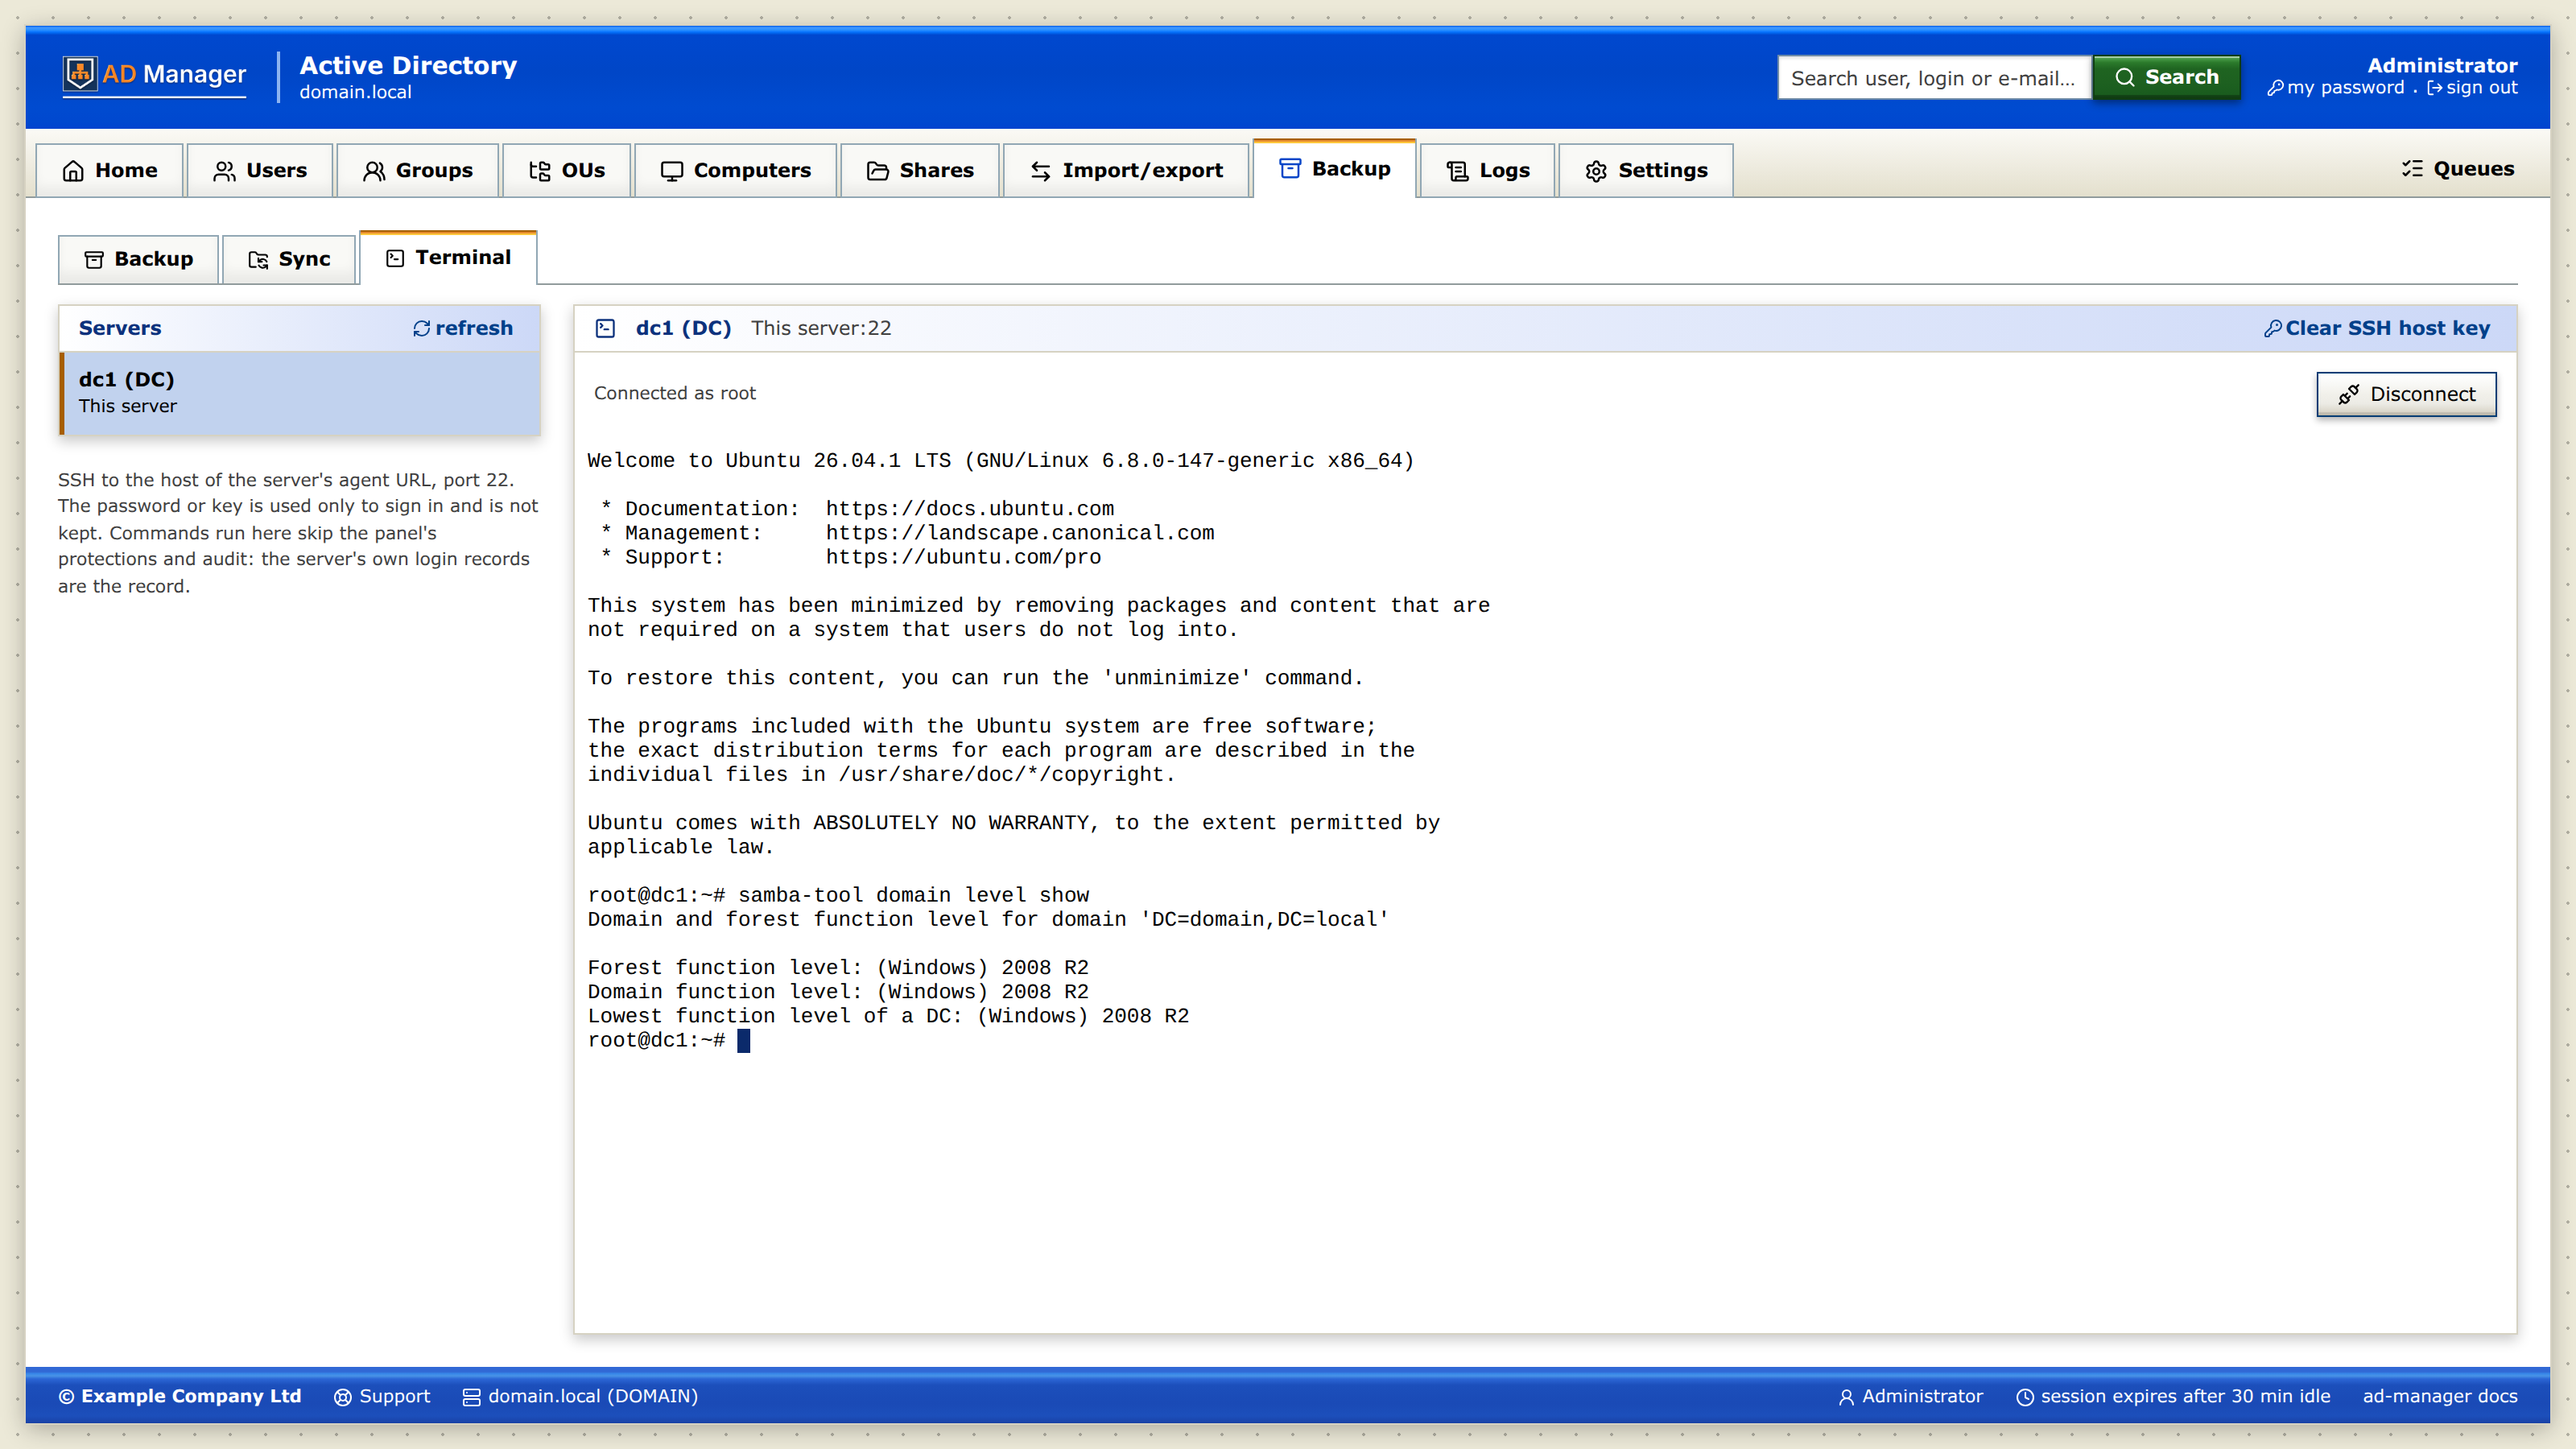
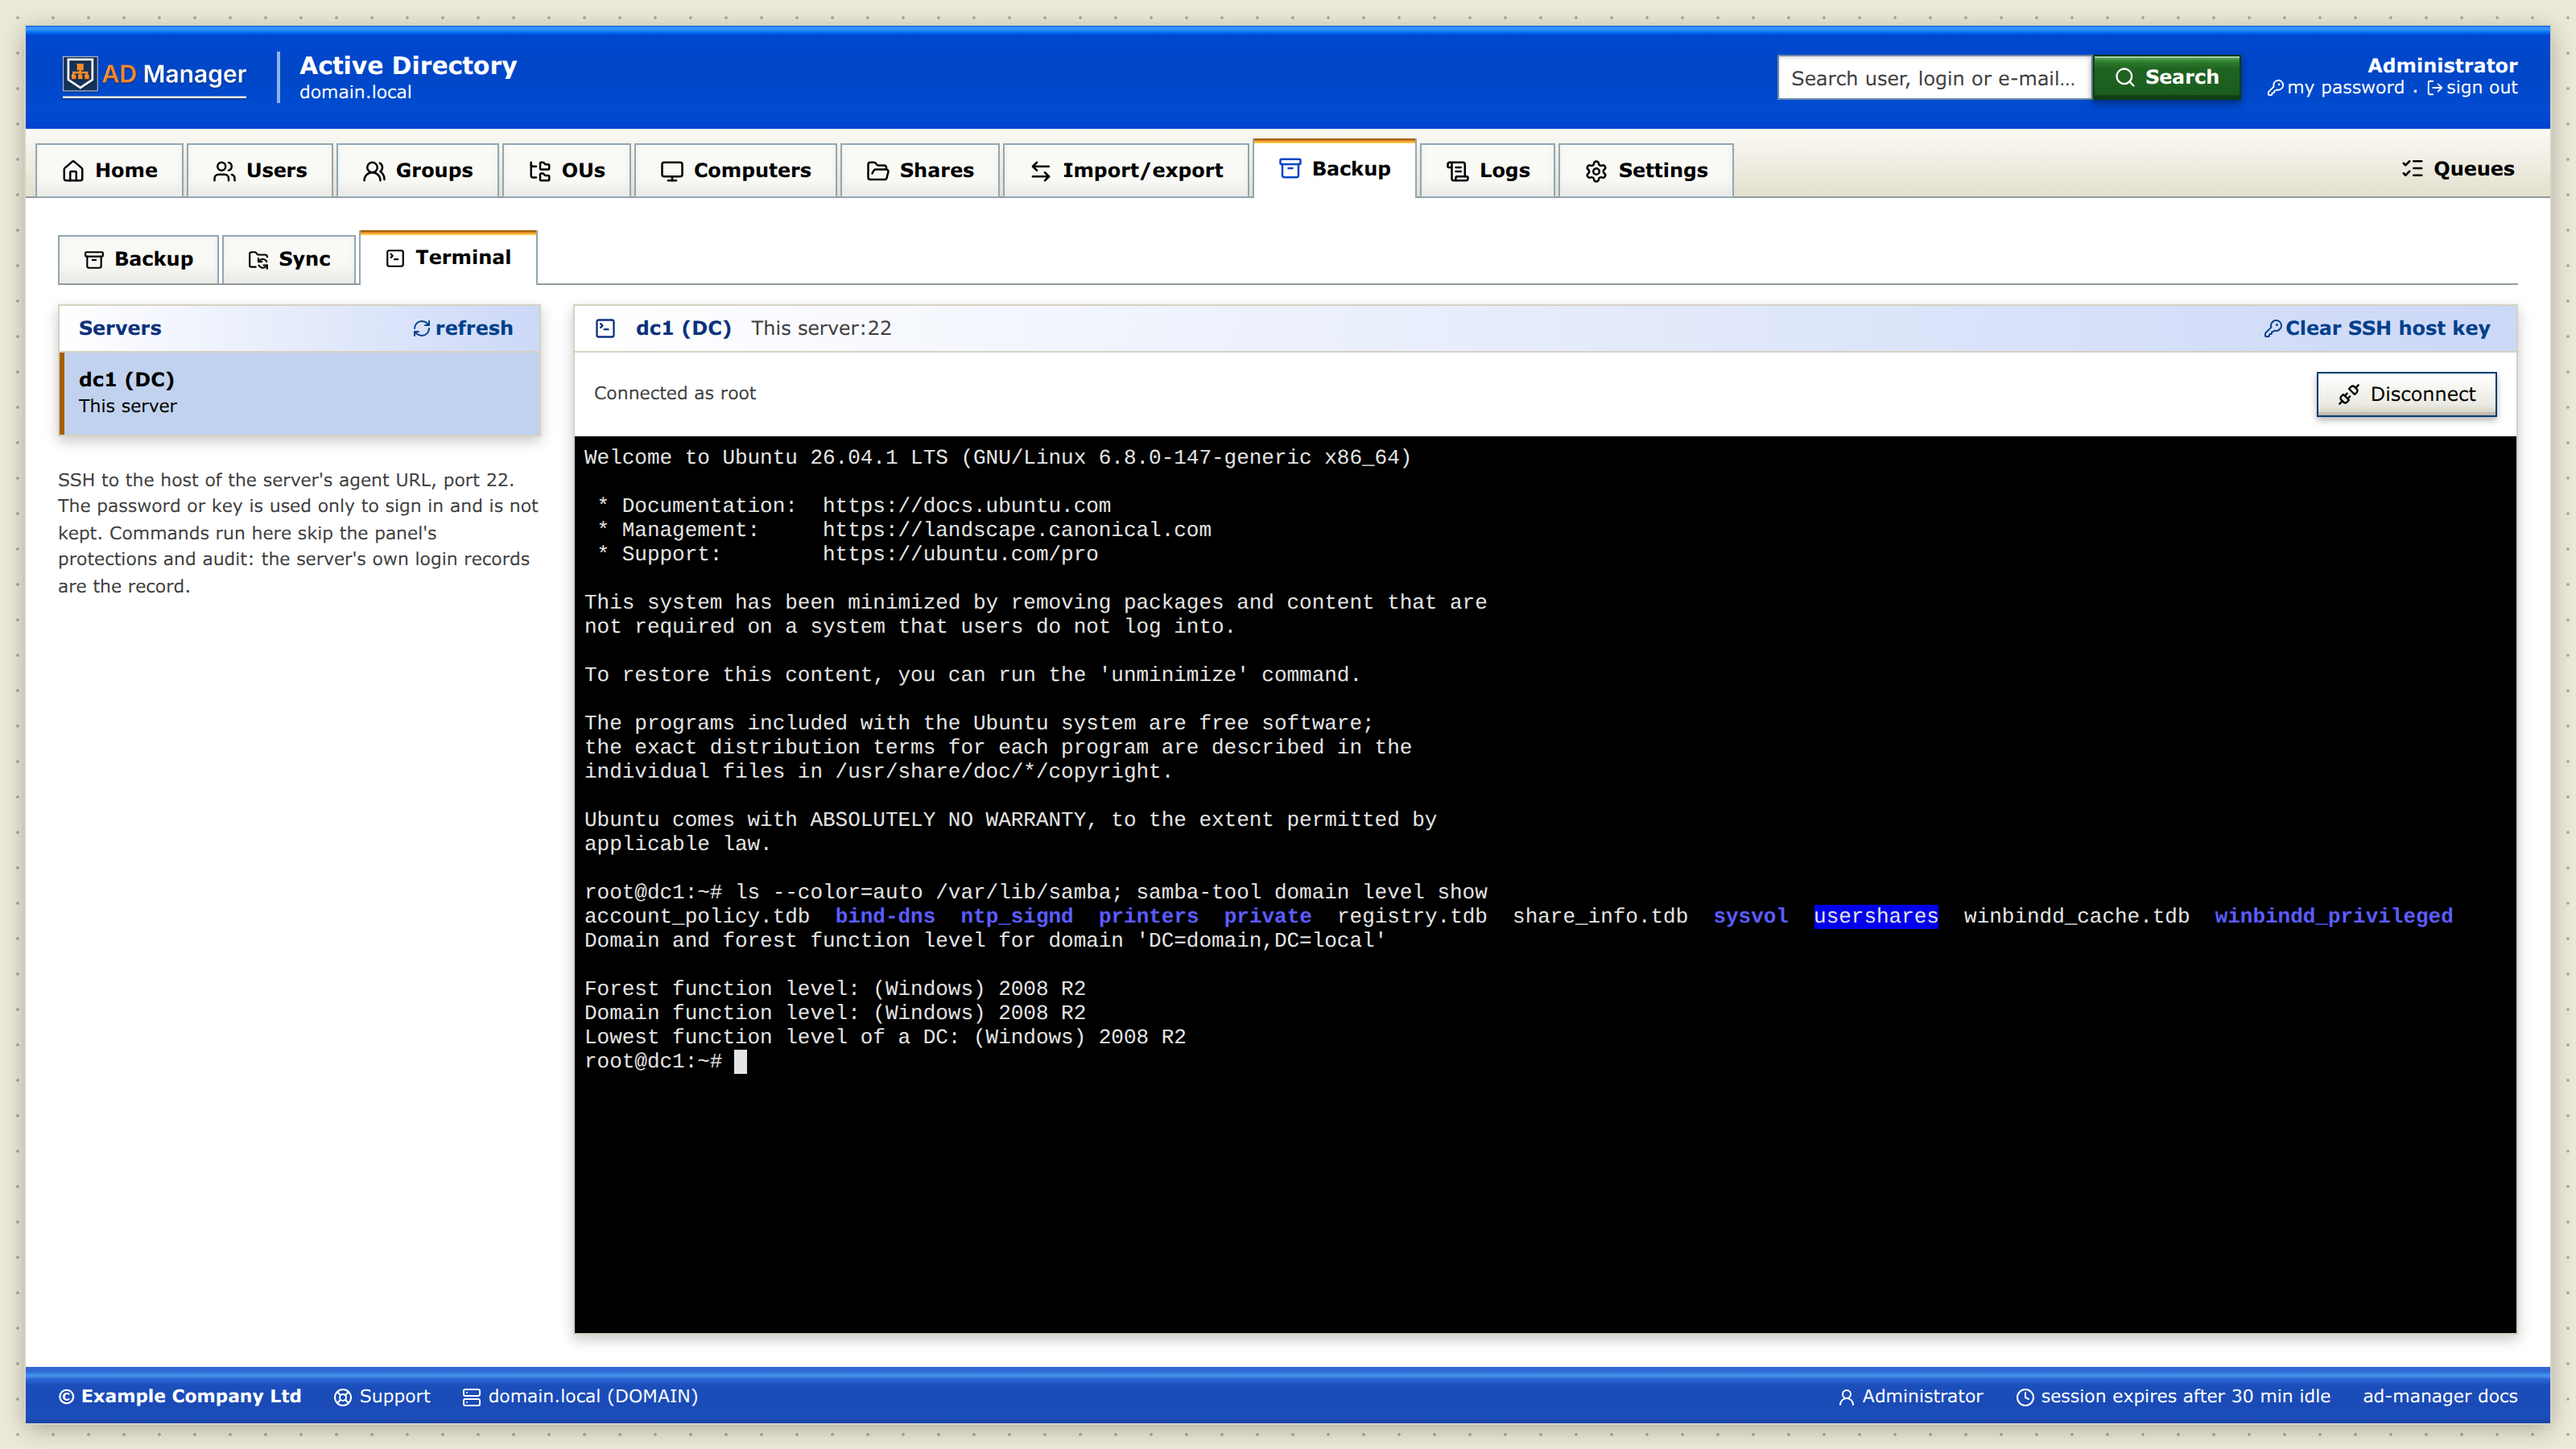
panel: the SSH terminal in xterm colors, a thin scrollbar and Shift+Insert
- The terminal uses the classic xterm palette (black background, the 16 ANSI
  colors, xterm.js deriving the 256-color cube) in every panel theme; the colors
  live in src/themes/xterm.js, where the color lint allows literals.
- A 6 px translucent scrollbar that fades when idle (xterm.js sets 14 px).
- Shift+Insert pastes the clipboard into the terminal; a refused clipboard
  read shows a message.
- docs/ssh-terminal.md, CHANGELOG, design and the 34-terminal screenshot.

diff --git a/frontend/src/pages/Terminal.vue b/frontend/src/pages/Terminal.vue
@@ -7,6 +7,7 @@ import { nextTick, onUnmounted, ref } from 'vue'
 import { Terminal } from '@xterm/xterm'
 import { FitAddon } from '@xterm/addon-fit'
 import '@xterm/xterm/css/xterm.css'
+import xtermColors from '../themes/xterm'
 import { del, get, onSessionChange, platform } from '../api'
 import { askConfirm } from '../dialogs'
 import { t } from '../i18n'
@@ -73,25 +74,29 @@ const codes = {
   internal: 'The panel could not open the terminal',
 }
 
-// the terminal takes the panel theme's surface and text roles
-function termTheme() {
-  const css = getComputedStyle(document.documentElement)
-  const role = (r) => css.getPropertyValue(`--color-${r}`).trim()
-  return { background: role('surface'), foreground: role('fg'), cursor: role('fg-strong'), selectionBackground: role('row-hover') }
-}
-
 function ensureTerm() {
   if (term) return
   term = new Terminal({
     cursorBlink: true,
     fontFamily: 'ui-monospace, SFMono-Regular, Menlo, Consolas, "Liberation Mono", monospace',
     fontSize: 13,
-    theme: termTheme(),
+    theme: xtermColors,
   })
   fit = new FitAddon()
   term.loadAddon(fit)
   term.open(termEl.value)
   fit.fit()
+  // Shift+Insert pastes the clipboard, as in a desktop terminal (the browser does not send it to xterm.js)
+  term.attachCustomKeyEventHandler((e) => {
+    if (e.key !== 'Insert' || !e.shiftKey || e.ctrlKey || e.altKey || e.metaKey) return true
+    e.preventDefault()
+    if (e.type === 'keydown')
+      navigator.clipboard
+        ?.readText()
+        .then((text) => text && term.paste(text))
+        .catch(() => toast.error(t('The browser did not allow reading the clipboard.')))
+    return false
+  })
   term.onData((d) => ws?.readyState === WebSocket.OPEN && state.value === 'open' && ws.send(new TextEncoder().encode(d)))
   term.onResize(({ cols, rows }) => state.value === 'open' && ws.send(JSON.stringify({ type: 'resize', cols, rows })))
   resizeObs = new ResizeObserver(() => fit.fit())
@@ -263,10 +268,23 @@ if (!desktop) load()
           <button class="btn-ghost ml-auto" @click="disconnect"><Unplug :size="14" /> {{ t('Disconnect') }}</button>
         </div>
         <p v-if="error" class="px-3 pb-2 text-err" role="alert">{{ error }}</p>
-        <div class="min-h-[320px] flex-1 bg-surface p-2">
+        <div class="term-box min-h-[320px] flex-1">
           <div ref="termEl" class="h-full w-full" data-testid="terminal"></div>
         </div>
       </section>
     </div>
   </div>
 </template>
+
+<style scoped>
+/* the terminal's own black fills the whole box (xterm.js paints its viewport, which covers the padding box) */
+.term-box :deep(.xterm) {
+  height: 100%;
+  padding: 6px;
+}
+/* a thin scrollbar (xterm.js sets 14 px inline); its colors are the palette's (themes/xterm.js) */
+.term-box :deep(.xterm-scrollable-element > .scrollbar.vertical),
+.term-box :deep(.xterm-scrollable-element > .scrollbar.vertical > .slider) {
+  width: 6px !important;
+}
+</style>

diff --git a/frontend/src/themes/xterm.js b/frontend/src/themes/xterm.js
@@ -1,0 +1,28 @@
+// The SSH terminal's colors: the classic xterm palette (the 16 ANSI colors; xterm.js derives the 256-color cube and
+// gray ramp from the standard), the same in every panel theme, like a real terminal window.
+export default {
+  background: '#000000',
+  foreground: '#e5e5e5',
+  cursor: '#e5e5e5',
+  cursorAccent: '#000000',
+  selectionBackground: '#4d4d4d',
+  scrollbarSliderBackground: 'rgba(255, 255, 255, 0.12)',
+  scrollbarSliderHoverBackground: 'rgba(255, 255, 255, 0.25)',
+  scrollbarSliderActiveBackground: 'rgba(255, 255, 255, 0.35)',
+  black: '#000000',
+  red: '#cd0000',
+  green: '#00cd00',
+  yellow: '#cdcd00',
+  blue: '#0000ee',
+  magenta: '#cd00cd',
+  cyan: '#00cdcd',
+  white: '#e5e5e5',
+  brightBlack: '#7f7f7f',
+  brightRed: '#ff0000',
+  brightGreen: '#00ff00',
+  brightYellow: '#ffff00',
+  brightBlue: '#5c5cff',
+  brightMagenta: '#ff00ff',
+  brightCyan: '#00ffff',
+  brightWhite: '#ffffff',
+}

diff --git a/frontend/src/locales/pt-BR/backup.js b/frontend/src/locales/pt-BR/backup.js
@@ -117,4 +117,5 @@ export default {
   "SSH to the registered servers from the panel. Commands run there skip the panel's protections and audit (only the connection is audited). Turning it off closes open terminals.":
     'SSH para os servidores cadastrados a partir do painel. Comandos executados lá não passam pelas proteções nem pela auditoria do painel (só a conexão é auditada). Desligar fecha os terminais abertos.',
   'Choose a key file (optional)': 'Escolher arquivo de chave (opcional)',
+  'The browser did not allow reading the clipboard.': 'O navegador não permitiu ler a área de transferência.',
 }

diff --git a/openspec/changes/ssh-terminal/design.md b/openspec/changes/ssh-terminal/design.md
@@ -96,7 +96,9 @@ Settings switch and `docs/` say so, and the host's own `auth.log` and shell hist
 keeps the Backup top tab active on `/terminal`. `pages/Terminal.vue`: the Servers list on the left (agents only, as
 in Backup), and on the right user, password or key file (read with `FileReader`, never stored), Connect/Disconnect,
 "Clear SSH host key" for the selected server, the fingerprint confirmation dialog, and the xterm.js view with
-`@xterm/addon-fit`. A fixed dark terminal palette and a monospace font; the frame follows the theme. In the desktop
+`@xterm/addon-fit`. The terminal is `xterm-256color` with the classic xterm palette (black background, the 16 ANSI colors, xterm.js
+deriving the 256-color cube), the same in every theme: the colors live in `src/themes/xterm.js`, the one place
+the color lint allows literals; a monospace font; the frame follows the theme. In the desktop
 app the sub-tab is disabled and the page, reached directly at `/terminal`, shows the message and opens no WebSocket.
 
 ## Risks

diff --git a/CHANGELOG.md b/CHANGELOG.md
@@ -7,7 +7,8 @@ All notable changes to this project are documented here. The format follows
 
 ### Added
 - SSH terminal: a **Terminal** sub-tab beside Backup and Sync opens an SSH shell (xterm.js) to the host of a
-  registered server, port 22, with a password or a private key. The SSH client runs in the panel over a
+  registered server, port 22, with a password or a private key; `xterm-256color` with the classic xterm
+  palette, a thin scrollbar and Shift+Insert to paste. The SSH client runs in the panel over a
   same-origin WebSocket; off by default (Settings), host key pinned on first use, at most 4 terminals per operator,
   closed with the panel session; the credential is never kept and only the connection is audited (`ssh.open`,
   `ssh.close`, `ssh.hostkey.trust`, `ssh.hostkey.reset`). Not in the desktop app. See `docs/ssh-terminal.md`.

diff --git a/docs/ssh-terminal.md b/docs/ssh-terminal.md
@@ -27,6 +27,9 @@ closes every open terminal at once.
 - The **password, key and passphrase** go only in the first message, are used to sign in and are not kept: not in
   the database, the logs, the audit or the browser's storage. The form clears once the shell opens. SSH errors are
   shown as fixed messages, never the server's text.
+- The terminal is `xterm-256color` (the PTY's `TERM`) with the classic xterm palette — black background, the 16
+  ANSI colors and the 256-color cube — the same in every panel theme.
+- **Shift+Insert** pastes the clipboard into the terminal (the browser asks once to allow reading it).
 - The desktop app does not have it (its proxy carries no WebSocket): the sub-tab shows disabled there.
 
 ## Host key
